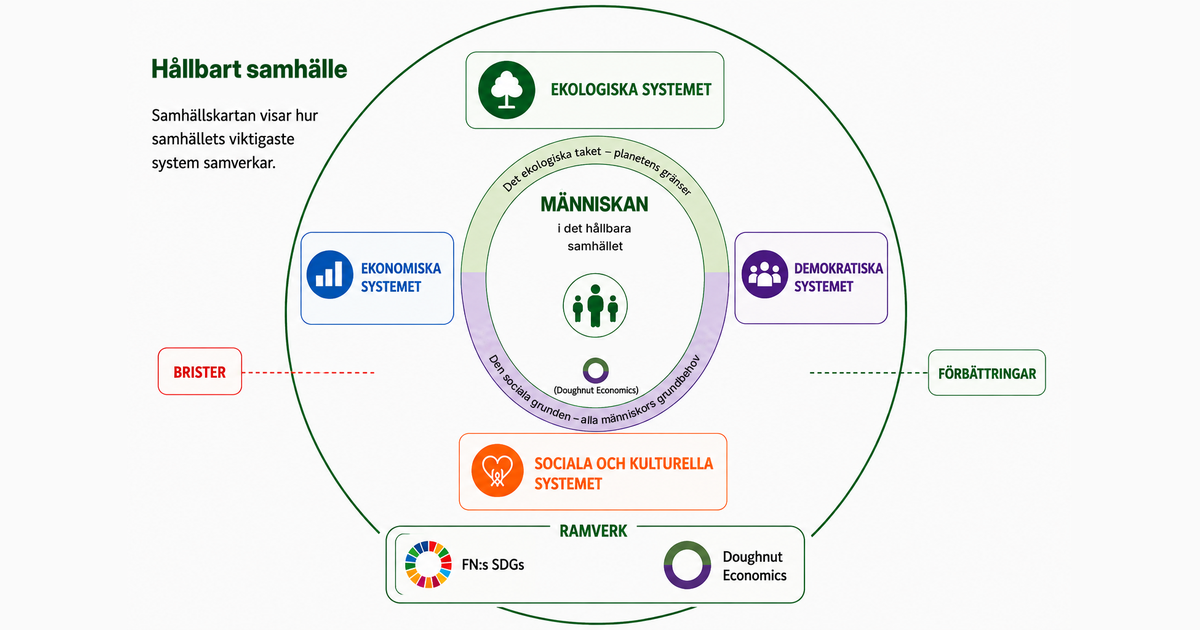
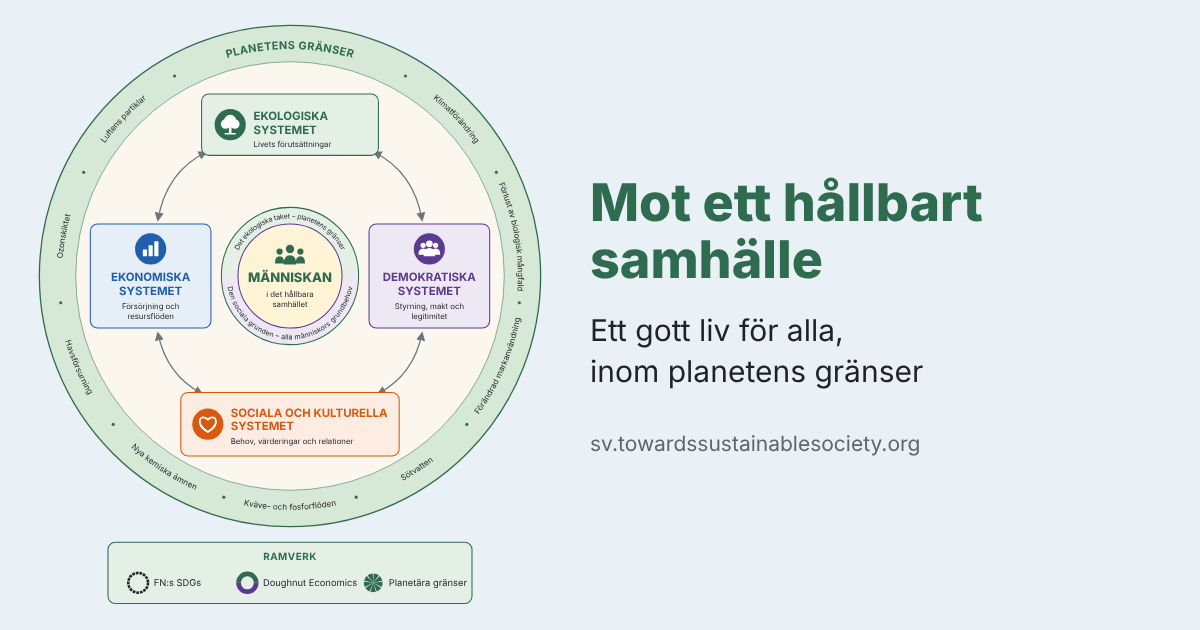
Objektregister för Samhällskartan och ny delningsbild från SVG-kartan (utkast)
Claude-Session: https://claude.ai/code/session_01HYncH8hmDp54D5HpZeHo9n

diff --git a/forvaltning/Objektregister Samhällskartan.md b/forvaltning/Objektregister Samhällskartan.md
@@ -1,0 +1,78 @@
+# Objektregister – Samhällskartan
+
+Version 2026-10-29. Ersätter BO-001, som beskrev den gamla rasterbilden.
+
+Kartan är filen [`texter/Vårt samhälle/Samhällskartan/Samhällskartan.svg`](<../texter/Vårt samhälle/Samhällskartan/Samhällskartan.svg>). SVG-filen är originalet. Den visas på startsidan Hållbart samhälle, på Samhällskartan och i sista steget på Vårt samhälle.
+
+## Så ändras kartan
+
+- Ändra i SVG-filen. Texterna är vanlig text och kan bytas direkt. Varje objekt har ett `id`, som står i tabellerna nedan.
+- Grundstrukturen ändras inte utan särskilt beslut: Människan i mitten, ringen runt henne, Ekologiska överst, Ekonomiska till vänster, Demokratiska till höger, Sociala och kulturella nederst, planetens gränser runt om och Ramverk längst ner.
+- Färgerna och ikonerna hör till systemen och byts inte mellan dem.
+- Länkarna skrivs relativt till SVG-filens mapp, som länkarna i sidfilerna. Bygget gör om dem till webbplatsens adresser och larmar om en länk inte hittar sin sida.
+- Bågtexterna (gränserna och ringen) följer en osynlig båge, `bage-…`. En längre text kan behöva en längre båge eller mindre text.
+- Äldre versioner finns i förrådets historik.
+- Den engelska versionen görs genom att texterna byts mot kolumnen Engelska (förslag) nedan, när ordlistan är godkänd.
+
+## Färger
+
+| System | Linje och text | Bakgrund |
+|---|---|---|
+| Ekologiska, Planetens gränser, Ramverk | #2f6b4f | #e4efe6 (gränsringen #d6e8d6) |
+| Ekonomiska | #1f5fae | #e6eef8 |
+| Demokratiska | #5b3a8f | #eee8f5 |
+| Sociala och kulturella | #d9590f | #fcece2 |
+| Människan | #2f6b4f | #fff4d6 |
+| Utanför gränserna / innanför gränserna | | #e9f1f6 / #fbf7ee |
+
+## Objekt
+
+### Bakgrund och planetens gränser
+
+| Id | Svenska | Engelska (förslag) | Länk till |
+|---|---|---|---|
+| `bakgrund` | (ytorna utanför och innanför gränserna) | | |
+| `planetens-granser` | PLANETENS GRÄNSER | PLANETARY BOUNDARIES | Planetära gränser – Ramverk |
+| `grans-klimat` | Klimatförändring | Climate change | |
+| `grans-mangfald` | Förlust av biologisk mångfald | Loss of biodiversity | |
+| `grans-mark` | Förändrad markanvändning | Land-system change | |
+| `grans-sotvatten` | Sötvatten | Freshwater | |
+| `grans-kvave-fosfor` | Kväve- och fosforflöden | Nitrogen and phosphorus flows | |
+| `grans-kemiska` | Nya kemiska ämnen | Novel entities | |
+| `grans-havsforsurning` | Havsförsurning | Ocean acidification | |
+| `grans-ozon` | Ozonskiktet | Ozone layer | |
+| `grans-partiklar` | Luftens partiklar | Atmospheric aerosols | |
+
+### De fyra systemen
+
+| Id | Svenska | Engelska (förslag) | Länk till |
+|---|---|---|---|
+| `system-ekologiska` | EKOLOGISKA SYSTEMET / Livets förutsättningar | THE ECOLOGICAL SYSTEM / The basis of life | Ekologiska systemet |
+| `system-ekonomiska` | EKONOMISKA SYSTEMET / Försörjning och resursflöden | THE ECONOMIC SYSTEM / Livelihoods and resource flows | Ekonomiska systemet |
+| `system-demokratiska` | DEMOKRATISKA SYSTEMET / Styrning, makt och legitimitet | THE DEMOCRATIC SYSTEM / Governance, power and legitimacy | Demokratiska systemet |
+| `system-sociala` | SOCIALA OCH KULTURELLA SYSTEMET / Behov, värderingar och relationer | THE SOCIAL AND CULTURAL SYSTEM / Needs, values and relationships | Sociala o kulturella systemet |
+| `samband` | (fyra dubbelriktade pilar mellan systemen) | | |
+
+Ikoner, ritade i filen: träd (Ekologiska), staplar (Ekonomiska), grupp (Demokratiska), hjärta (Sociala och kulturella), tre personer (Människan).
+
+### Mitten
+
+| Id | Svenska | Engelska (förslag) | Länk till |
+|---|---|---|---|
+| `doughnut` | Det ekologiska taket – planetens gränser / Den sociala grunden – alla människors grundbehov | The ecological ceiling – planetary boundaries / The social foundation – everyone's basic needs | Doughnut Economics – Ramverk |
+| `manniskan` | MÄNNISKAN / i det hållbara samhället | PEOPLE / in the sustainable society | Människan |
+
+### Ramverk
+
+| Id | Svenska | Engelska (förslag) | Länk till |
+|---|---|---|---|
+| `ramverk` | RAMVERK | FRAMEWORK | Ramverk |
+| `ramverk-sdgs` | FN:s SDGs | The UN SDGs | FNs SDGs – Ramverk |
+| `ramverk-doughnut` | Doughnut Economics | Doughnut Economics | Doughnut Economics – Ramverk |
+| `ramverk-planetara` | Planetära gränser | Planetary boundaries | Planetära gränser – Ramverk |
+
+De engelska termerna för gränserna, *social foundation* och *ecological ceiling* följer originalkällorna (Stockholm Resilience Centre och Kate Raworth). Övriga engelska texter är förslag som godkänns i ordlistan för TSS-en.
+
+## Delningsbilden
+
+`texter/Hållbart samhälle/Hållbart samhälle delningsbild 1200x630.png` är bilden som visas när en sida delas i sociala medier. Den görs från SVG-kartan och ska göras om när kartan ändras.

diff --git a/README.md b/README.md
@@ -18,8 +18,9 @@ Byggskripten i `bygg/` omfattas av samma licens.
 
 | Mapp | Innehåll |
 |---|---|
-| `texter/` | Webbplatsens sidor i markdown, en mapp per sida. Filen heter som mappen, till exempel `texter/Samhällsutforskaren/Ekologiska systemet/Naturens kretslopp/Naturens kretslopp.md`. Bilder ligger som PNG i sidans mapp. |
+| `texter/` | Webbplatsens sidor i markdown, en mapp per sida. Filen heter som mappen, till exempel `texter/Samhällsutforskaren/Ekologiska systemet/Naturens kretslopp/Naturens kretslopp.md`. Bilder ligger som PNG i sidans mapp. Samhällskartan är en SVG med länkar (`texter/Vårt samhälle/Samhällskartan/Samhällskartan.svg`). |
 | `texter/Sidordning.md` | Alla sidor i den ordning de visas. Navigeringen på webbplatsen (toppmenyn, raden som visar var man är och listan över sidorna sist) byggs av mallen utifrån mapparna och den här filen. |
+| `forvaltning/` | Underlag för förvaltningen, till exempel objektregistret för Samhällskartan. |
 | `bygg/` | `bygg.py` gör om texterna till en statisk webbplats. `mall.html` är sidmallen och `stil.css` utseendet. |
 | `.github/workflows/publicera.yml` | Bygger och publicerar webbplatsen på GitHub Pages vid varje ändring i `main`. |
 
@@ -37,7 +38,7 @@ Texterna i förrådet är originalet sedan 2026-10-28. Före dess var originalet
 
 1. Varje sida görs om från markdown till HTML med pandoc.
 2. Länkar till andra sidfiler blir webbplatsens egna adresser, till exempel `/samhallsutforskaren/ekologiska-systemet/naturens-kretslopp/`. Externa länkar öppnas i en ny flik.
-3. Bilderna kopieras till webbplatsen.
+3. Bilderna kopieras till webbplatsen. En SVG-bild läggs in direkt i sidan, så att länkarna i den fungerar.
 4. Bygget skriver också sitemap, robots.txt och CNAME, och listar problem i loggen för körningen: länkar som inte hittar sin sida, bilder som saknas och sidor som saknas eller står fel i `Sidordning.md`.
 
 Bygga själv (kräver pandoc och Python 3.10 eller senare):
